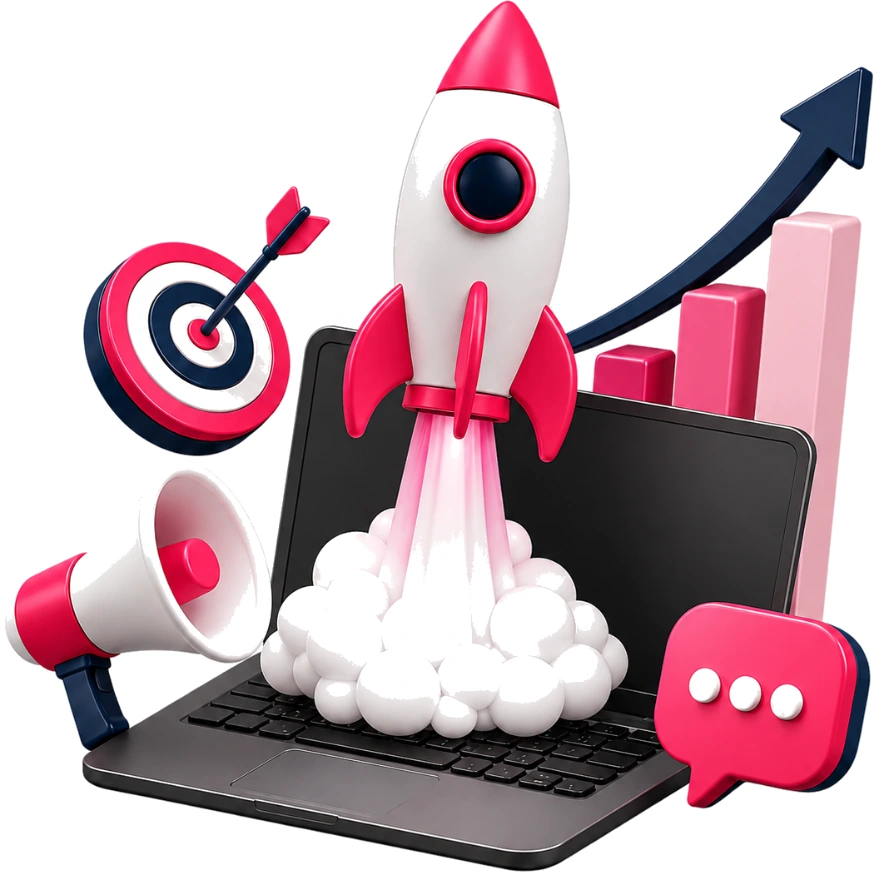
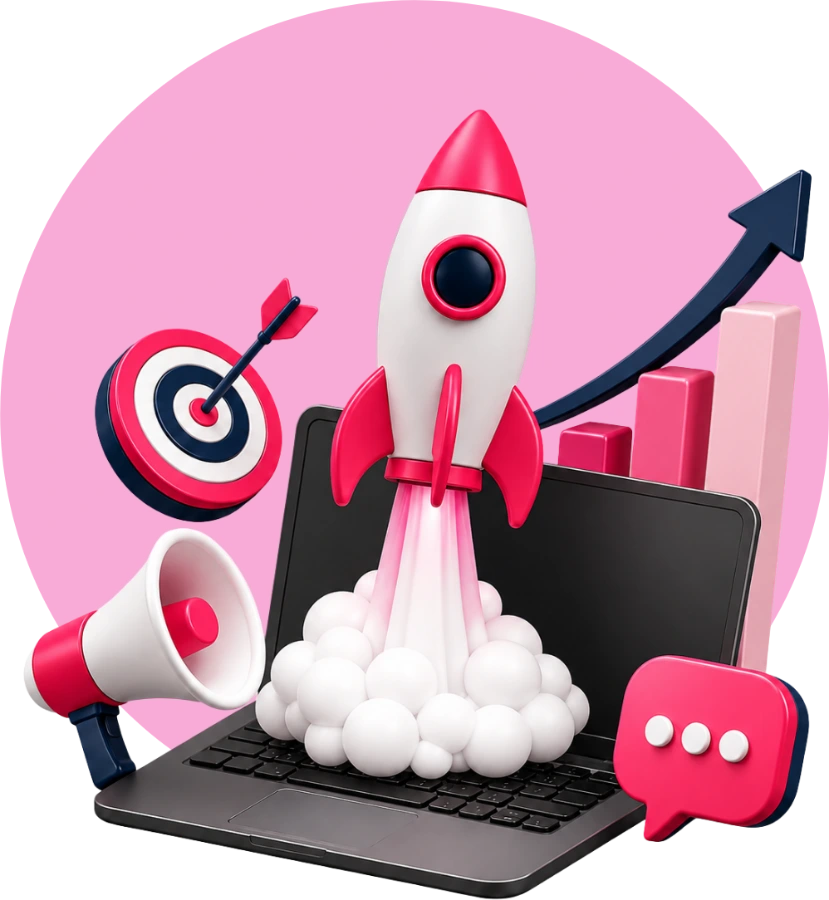
Actualiza el icono del hero al nuevo icono-heroe

diff --git a/index.html b/index.html
@@ -26,7 +26,7 @@
 <link rel="preconnect" href="https://fonts.gstatic.com" crossorigin>
 <link rel="preload" as="image" href="assets/ekho-logo-blanco.png">
 <link href="https://fonts.googleapis.com/css2?family=Space+Grotesk:wght@500;600;700&family=Inter:wght@400;500;600&display=swap" rel="stylesheet">
-<link rel="stylesheet" href="styles.css?v=34">
+<link rel="stylesheet" href="styles.css?v=35">
 </head>
 <body>
 <a class="skip-link" href="#main">Saltar al contenido</a>
@@ -84,7 +84,7 @@
         <span class="gem"></span>
 
         <div class="hero-ilu">
-          <img src="assets/hero-icono.webp" width="879" height="880" fetchpriority="high" decoding="async" alt="">
+          <img src="assets/hero-icono.webp" width="829" height="900" fetchpriority="high" decoding="async" alt="">
         </div>
       </div>
     </div>
